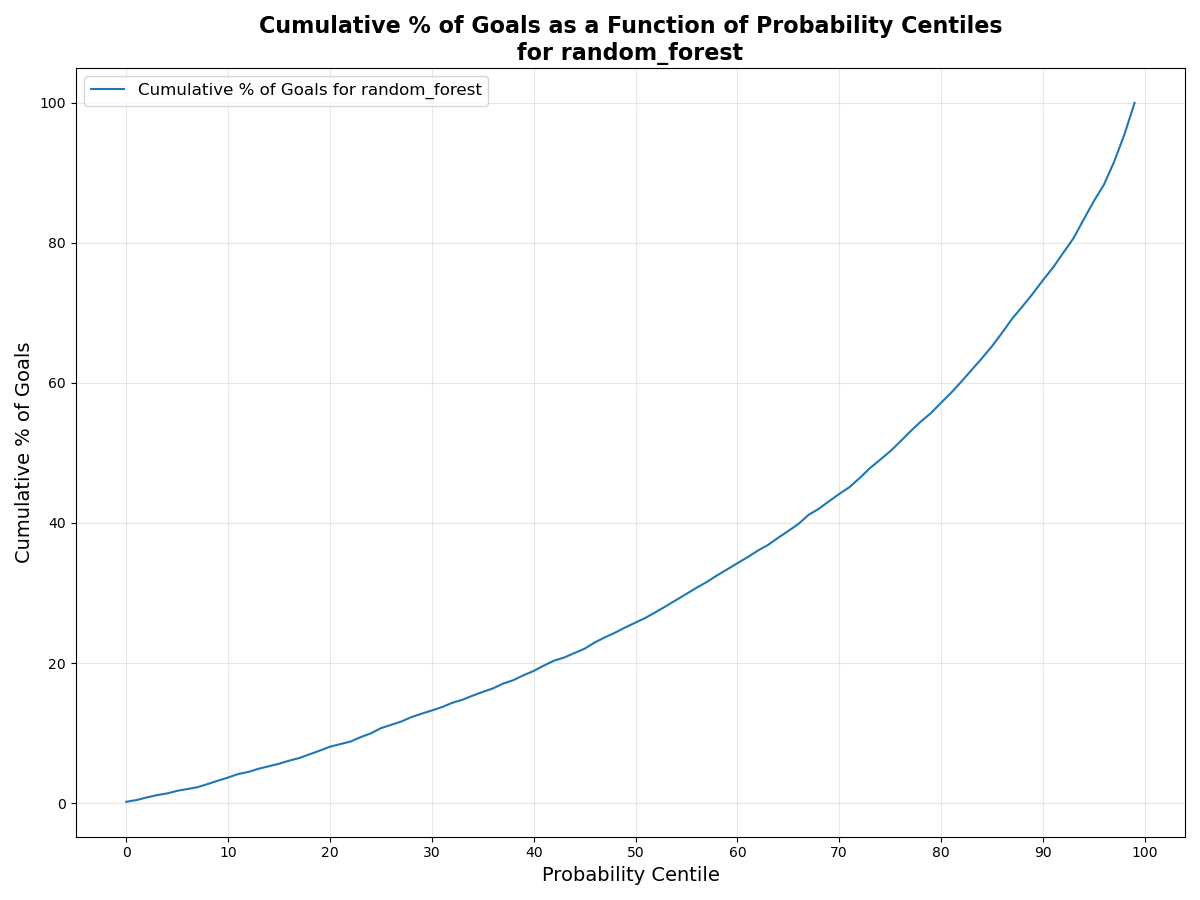
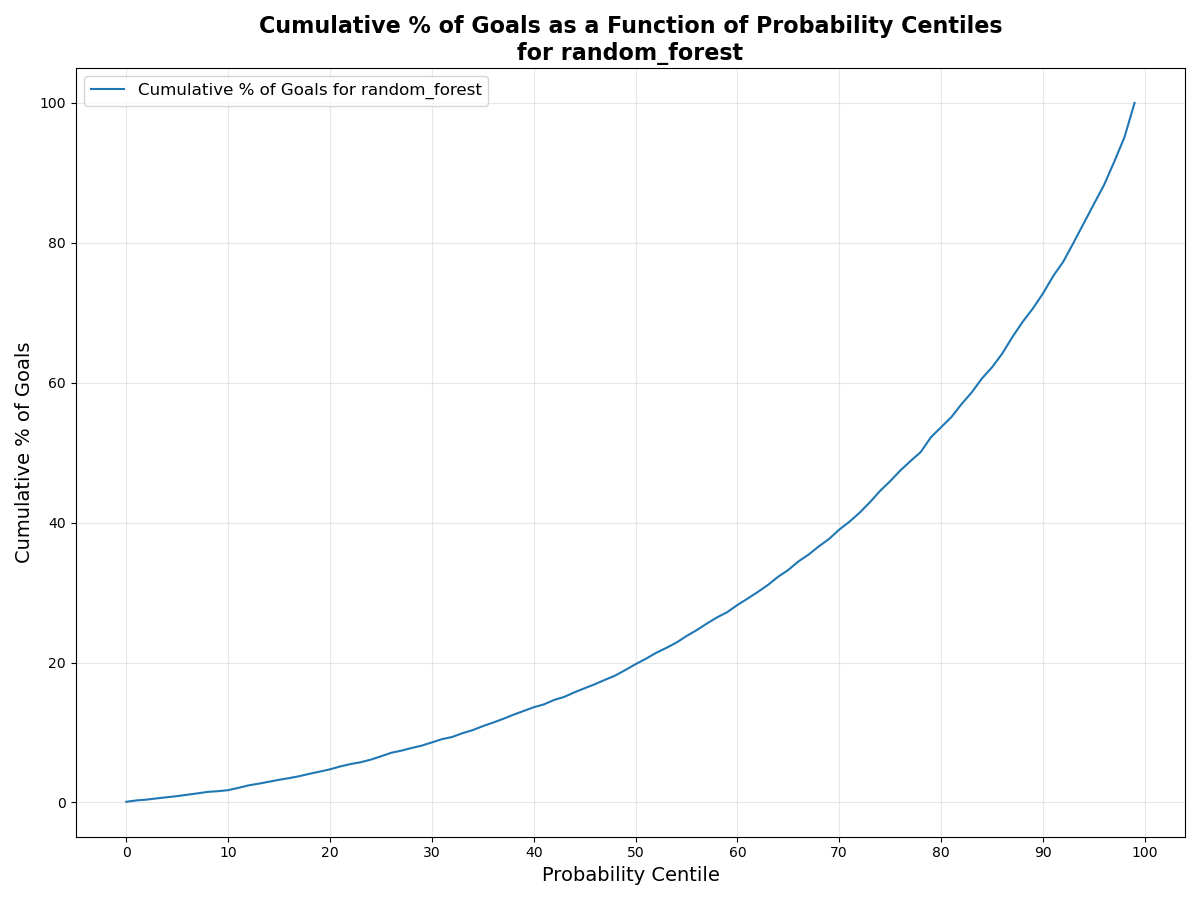
chore: add best results for random

diff --git a/advanced_models/svm.py b/advanced_models/svm.py
@@ -1,3 +1,4 @@
+import numpy as np
 from sklearn.svm import SVC
 from sklearn.pipeline import Pipeline
 import wandb
@@ -33,6 +34,7 @@ def train_and_test_svm(C = 1.0, kernel = "rbf", use_wandb=True, close_wandb=True
     ])
 
     return train_and_val_model(
+        project="svm",
         model=model,
         model_slug="svm",
         model_name="SVM",
@@ -46,8 +48,10 @@ def train_and_test_svm(C = 1.0, kernel = "rbf", use_wandb=True, close_wandb=True
 if __name__ == "__main__":
     use_wandb = True
 
-    C_values = [0.1, 0.2, 0.5, 1.0, 2.0, 5.0, 10.0]
-    kernel_values = ["linear", "poly", "rbf", "sigmoid"]
+    # C_values = [0.1, 0.2, 0.5, 1.0, 2.0, 5.0, 10.0]
+    C_values = np.linspace(0.55, 0.95, 10)
+    # kernel_values = ["linear", "poly", "rbf", "sigmoid"]
+    kernel_values = ["rbf"]
 
     for c in C_values:
         for k in kernel_values:

diff --git a/advanced_models/random_forest.py b/advanced_models/random_forest.py
@@ -34,6 +34,7 @@ def train_and_test_random_forest(n_estimators = 300, max_depth = 12, use_wandb=T
     ])
 
     return train_and_val_model(
+        project="random_forest",
         model=model,
         model_slug="random_forest",
         model_name="Random Forest",
@@ -57,8 +58,8 @@ if __name__ == "__main__":
             if use_wandb:
                 wandb.finish()
 
-    # model, y_pred, y_proba, y_val = train_and_test_random_forest(use_wandb=use_wandb, close_wandb=False)
+    # model, y_pred, y_proba, y_val = train_and_test_random_forest(n_estimators=1000, max_depth=18, use_wandb=use_wandb, close_wandb=False)
     # four_graphs(y_proba[:, 1], y_val, "random_forest", save_wandb=use_wandb)
-
+    #
     # if use_wandb:
     #     wandb.finish()
